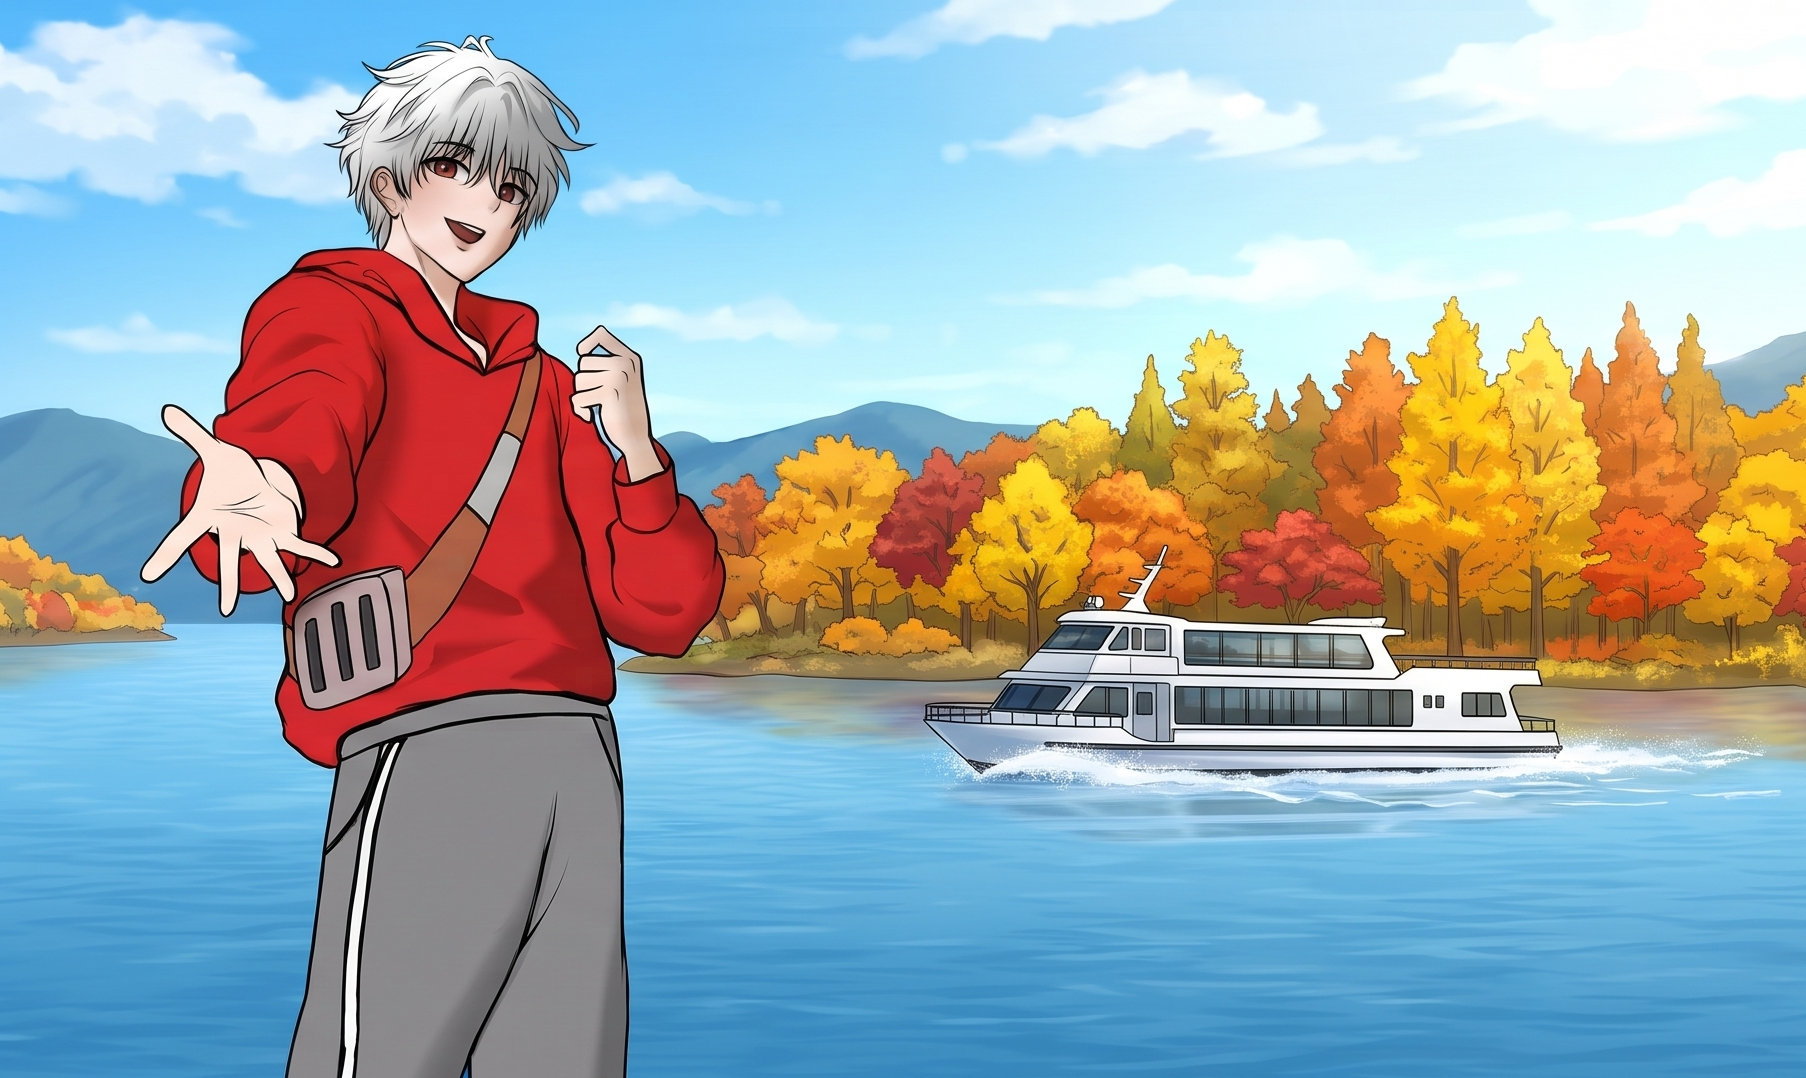
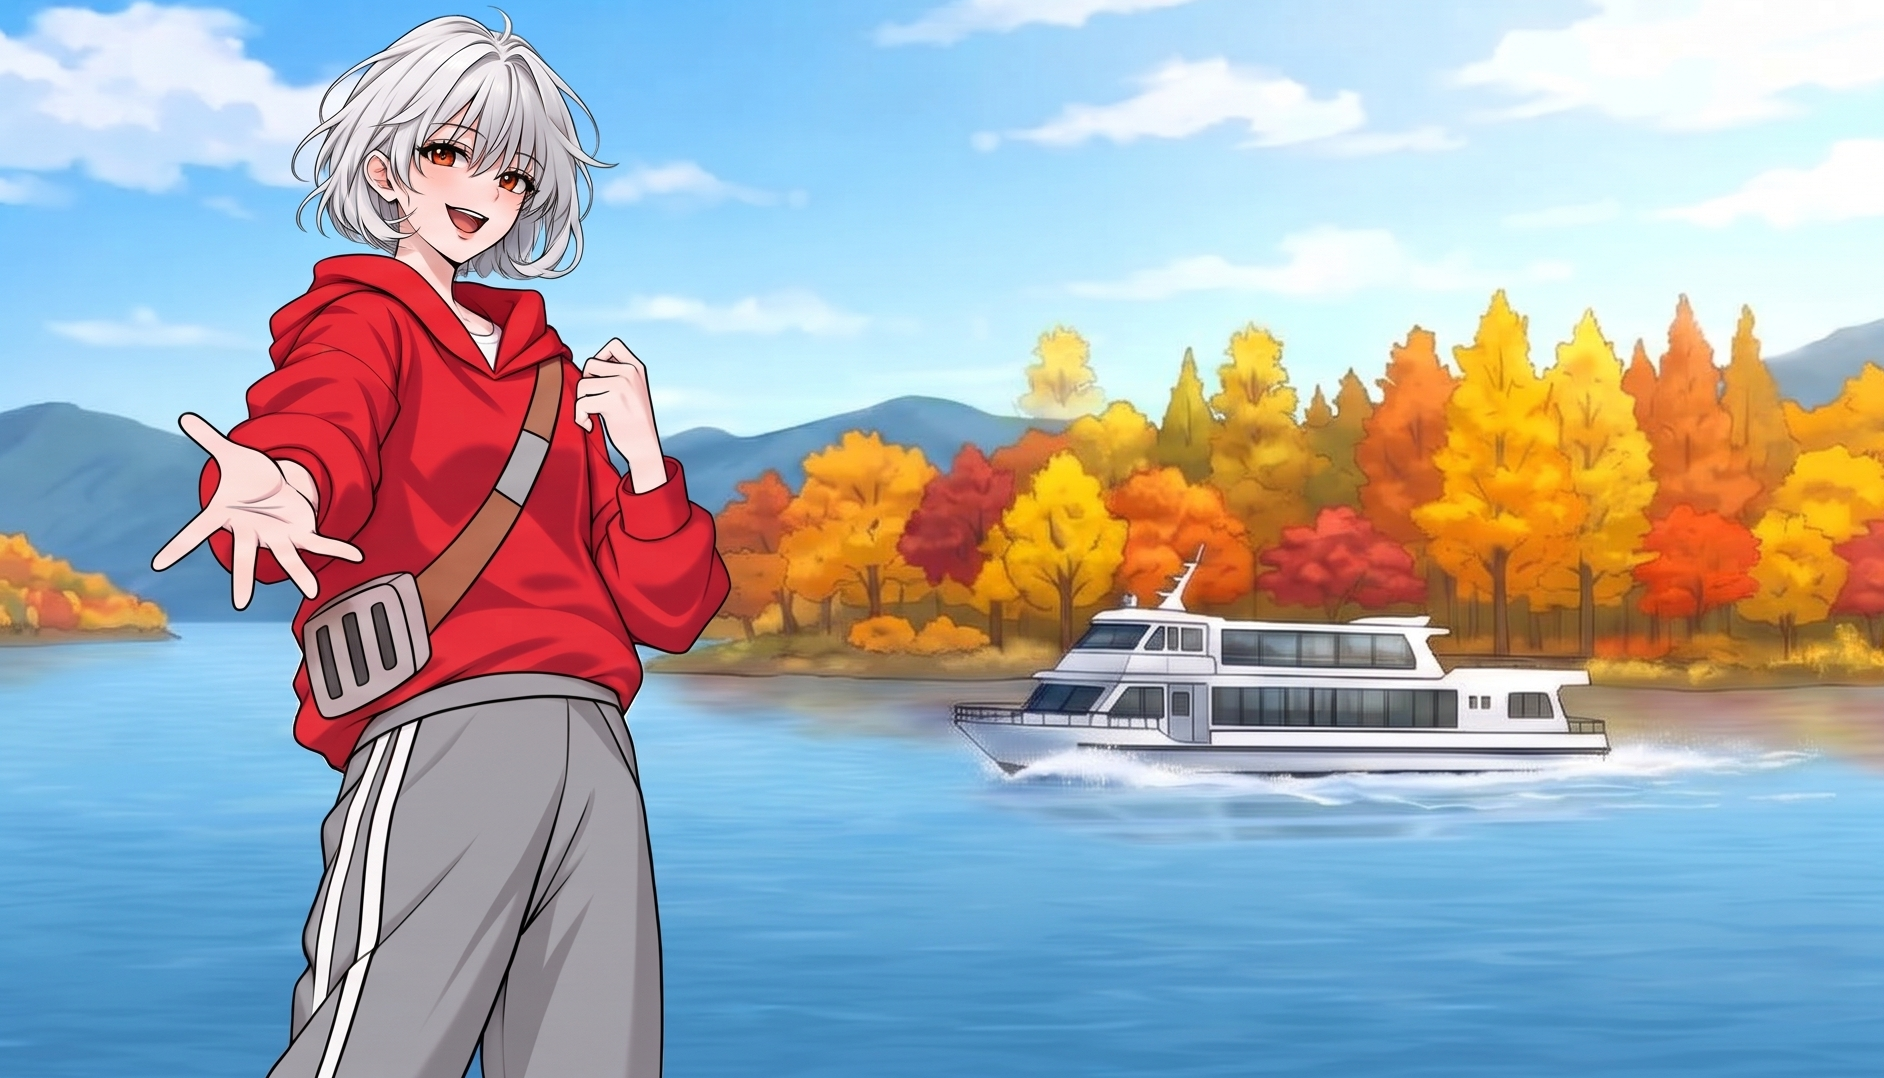
배경 추가

diff --git a/js/renderer.js b/js/renderer.js
@@ -67,11 +67,54 @@ class Renderer {
     this._typingIdx      = 0;
     this._typingCallback = null;
     this.assetManifest   = null;
+    this.backgroundsConfig = null;
   }
 
   setAssetManifest(manifest) {
     this.assetManifest = manifest || null;
     if (this.likeGauge) this.likeGauge.setAssetManifest(this.assetManifest);
+  }
+
+  setBackgroundsConfig(bgConfig) {
+    this.backgroundsConfig = bgConfig || null;
+  }
+
+  /**
+   * 배경 ID와 성별을 받아 실제 이미지 경로와 초점(background-position)을 반환합니다.
+   * - config/backgrounds.json 우선 조회 (성별별 객체 또는 단일 경로 지원)
+   * - 성별별 항목에서 요청 성별이 누락되면 반대 성별로 대체하지 않고 null 반환
+   */
+  resolveBackground(bgId, gender = 'female') {
+    if (!bgId || bgId === 'bg_black') return { url: null, focus: '50% 50%' };
+
+    const entry = this.backgroundsConfig && Object.prototype.hasOwnProperty.call(this.backgroundsConfig, bgId)
+      ? this.backgroundsConfig[bgId]
+      : null;
+
+    if (entry !== null && entry !== undefined) {
+      if (typeof entry === 'string') {
+        return { url: entry, focus: '50% 50%' };
+      }
+      if (typeof entry === 'object') {
+        const focus = entry.focus || '50% 50%';
+        const isGendered = Object.prototype.hasOwnProperty.call(entry, 'female')
+          || Object.prototype.hasOwnProperty.call(entry, 'male');
+        if (isGendered) {
+          const gKey = gender === 'male' ? 'male' : 'female';
+          if (entry[gKey]) {
+            return { url: entry[gKey], focus };
+          }
+          console.warn(`[Renderer] 성별(${gKey})에 해당하는 배경 경로가 없습니다: ${bgId}`);
+          return { url: null, focus };
+        }
+        if (entry.src) {
+          return { url: entry.src, focus };
+        }
+      }
+    }
+
+    const manifestPath = this.assetManifest?.backgrounds?.[bgId] || null;
+    return { url: manifestPath, focus: '50% 50%' };
   }
 
   setLikeFeedbackEnabled(enabled) {
@@ -123,8 +166,8 @@ class Renderer {
     let resolvedId = bgId;
     if (bgId === 'bg_hotel') resolvedId = overlay === 'night' ? 'bg_hotel_night' : 'bg_hotel_morning';
     else if (bgId === 'bg_promo_video') resolvedId = gender === 'male' ? 'bg_day3_billboard_m' : 'bg_day3_billboard_f';
-    const p = this.assetManifest?.backgrounds?.[resolvedId];
-    if (p) this.preloadImage(p);
+    const { url } = this.resolveBackground(resolvedId, gender);
+    if (url) this.preloadImage(url);
   }
 
   preloadCharacterSprites(gender = 'female') {
@@ -167,10 +210,10 @@ class Renderer {
       }
     }
 
-    this._renderBackgroundImage(resolvedId, effectiveOverlay);
+    this._renderBackgroundImage(resolvedId, effectiveOverlay, gender);
   }
 
-  _renderBackgroundImage(resolvedId, overlay = null) {
+  _renderBackgroundImage(resolvedId, overlay = null, gender = 'female') {
     if (!this.bgLayer) return;
 
     this.bgLayer.classList.remove('overlay-sunset', 'overlay-night', 'overlay-blur');
@@ -185,16 +228,19 @@ class Renderer {
 
     if (!resolvedId || resolvedId === 'bg_black') {
       this.bgLayer.style.backgroundImage = '';
+      this.bgLayer.style.backgroundPosition = '50% 50%';
       this.bgLayer.style.backgroundColor = '#000';
       if (this.bgPlaceholder) this.bgPlaceholder.style.display = 'none';
       return;
     }
 
-    const manifestPath = this.assetManifest?.backgrounds?.[resolvedId];
+    const { url: manifestPath, focus } = this.resolveBackground(resolvedId, gender);
     const label = this.assetManifest?.backgroundLabels?.[resolvedId] || resolvedId;
 
     const showPlaceholder = () => {
+      console.warn(`[Renderer] 배경 이미지 로드 실패 또는 미등록 (${resolvedId}, gender=${gender}): ${manifestPath || '없음'}`);
       this.bgLayer.style.backgroundImage = '';
+      this.bgLayer.style.backgroundPosition = '50% 50%';
       this.bgLayer.style.backgroundColor = '#1e2438';
       if (this.bgPlaceholder) {
         this.bgPlaceholder.textContent = `[배경 임시 이미지: ${label}]`;
@@ -208,6 +254,7 @@ class Renderer {
     }
 
     if (this.bgLayer.dataset.bgUrl === manifestPath && this.bgLayer.style.backgroundImage) {
+      this.bgLayer.style.backgroundPosition = focus || '50% 50%';
       if (this.bgPlaceholder) this.bgPlaceholder.style.display = 'none';
       return;
     }
@@ -215,6 +262,7 @@ class Renderer {
     const applyBgNow = () => {
       this.bgLayer.dataset.bgUrl = manifestPath;
       this.bgLayer.style.backgroundImage = `url('${manifestPath}')`;
+      this.bgLayer.style.backgroundPosition = focus || '50% 50%';
       this.bgLayer.style.backgroundColor = '';
       if (this.bgPlaceholder) this.bgPlaceholder.style.display = 'none';
     };

diff --git a/js/engine.js b/js/engine.js
@@ -38,6 +38,7 @@ class GameEngine {
     this.config = null;
     this.scoreScale = null;
     this.assetManifest = null;
+    this.backgroundsConfig = null;
 
     this.settings = {
       textSpeed: 40,
@@ -78,6 +79,9 @@ class GameEngine {
       if (this.assetManifest && typeof this.renderer.setAssetManifest === 'function') {
         this.renderer.setAssetManifest(this.assetManifest);
       }
+      if (this.backgroundsConfig && typeof this.renderer.setBackgroundsConfig === 'function') {
+        this.renderer.setBackgroundsConfig(this.backgroundsConfig);
+      }
       if (this.config?.dayTransition) this.renderer.dayTransitionConfig = this.config.dayTransition;
       if (this.config?.TRANSITION_MODE) this.renderer.transitionMode = this.config.TRANSITION_MODE;
       if (this.config) this.renderer.showChoiceImages = this.config.SHOW_CHOICE_IMAGES === true;
@@ -95,8 +99,8 @@ class GameEngine {
   setAchievedEndings() {}
 
   async init() {
-    // 1. config 및 에셋 매니페스트 병렬 로드
-    const [cfg, scale, chars, manifest] = await Promise.all([
+    // 1. config 및 에셋 매니페스트, 배경 설정 병렬 로드
+    const [cfg, scale, chars, manifest, bgConfig] = await Promise.all([
       loadJSON('config/game_config.json'),
       loadJSON('config/score_scale.json'),
       loadJSON('config/characters.json'),
@@ -104,15 +108,26 @@ class GameEngine {
         console.warn('[GameEngine] assets_manifest.json 로드 실패:', err);
         return null;
       }),
+      loadJSON('config/backgrounds.json').catch(err => {
+        console.warn('[GameEngine] backgrounds.json 로드 실패:', err);
+        return null;
+      }),
     ]);
     this.config = cfg;
     this.scoreScale = scale;
     this.charactersAll = chars;
     this.assetManifest = manifest;
+    this.backgroundsConfig = bgConfig;
 
     if (this.renderer) {
       if (this.assetManifest && typeof this.renderer.setAssetManifest === 'function') {
         this.renderer.setAssetManifest(this.assetManifest);
+      }
+      if (this.backgroundsConfig && typeof this.renderer.setBackgroundsConfig === 'function') {
+        this.renderer.setBackgroundsConfig(this.backgroundsConfig);
+      }
+      if (this.backgroundsConfig && typeof this.renderer.setBackgroundsConfig === 'function') {
+        this.renderer.setBackgroundsConfig(this.backgroundsConfig);
       }
       if (this.config.dayTransition) this.renderer.dayTransitionConfig = this.config.dayTransition;
       if (this.config.TRANSITION_MODE) this.renderer.transitionMode = this.config.TRANSITION_MODE;
@@ -153,9 +168,9 @@ class GameEngine {
     this.settings.sfxVolume = this.config.sfxVolume ?? 0.7;
     this.settings.showAffinity = this.config.showAffinity !== false;
 
-    // 4. 프롤로그 및 초반 장면 배경 백그라운드 프리로드 (시작 버튼 비차단)
+    // 4. 프롤로그 및 초반 장면 배경 백그라운드 프리로드 (성별별 홍보 영상 + 춘천역 포함)
     if (this.renderer && typeof this.renderer.preloadBackground === 'function') {
-      ['bg_train_window', 'bg_phone_screen', 'bg_brochure', 'bg_legoland', 'bg_skywalk', 'bg_dakgalbi_alley'].forEach(bg => {
+      ['bg_train_window', 'bg_phone_screen', 'bg_chuncheon_station', 'bg_brochure', 'bg_legoland', 'bg_skywalk', 'bg_dakgalbi_alley'].forEach(bg => {
         this.renderer.preloadBackground(bg, null, this.state.gender);
       });
     }

diff --git a/tools/verify_engine.js b/tools/verify_engine.js
@@ -475,6 +475,17 @@ async function runPlaythrough({ gender = 'male', seat = 'dakgalbi', day2Idx = 0,
   assert(contrastRatio('#70435F', '#EDF5FC') >= 4.5, '선택지 대비: --choice-plum on completed sky >= 4.5:1');
   assert(fs.existsSync(path.join(rootDir, 'css', 'choices.css')), '선택지 전용 CSS 파일 존재: css/choices.css');
 
+  // 16) config/backgrounds.json 성별별 배경 및 춘천역 공통 배경 검증
+  const bgCfgPath = path.join(rootDir, 'config', 'backgrounds.json');
+  assert(fs.existsSync(bgCfgPath), 'config/backgrounds.json 파일 존재');
+  const bgCfg = JSON.parse(fs.readFileSync(bgCfgPath, 'utf8'));
+  assert(bgCfg.bg_phone_screen?.female === 'assets/backgrounds/bg_promo_video_f.png', 'bg_phone_screen.female 경로 일치');
+  assert(bgCfg.bg_phone_screen?.male === 'assets/backgrounds/bg_promo_video_m.png', 'bg_phone_screen.male 경로 일치');
+  assert((bgCfg.bg_chuncheon_station?.src || bgCfg.bg_chuncheon_station) === 'assets/backgrounds/bg_chuncheon_station.png', 'bg_chuncheon_station 경로 일치');
+  assert(fs.existsSync(path.join(rootDir, bgCfg.bg_phone_screen.female)), '실제 파일 존재: bg_promo_video_f.png');
+  assert(fs.existsSync(path.join(rootDir, bgCfg.bg_phone_screen.male)), '실제 파일 존재: bg_promo_video_m.png');
+  assert(fs.existsSync(path.join(rootDir, bgCfg.bg_chuncheon_station.src || bgCfg.bg_chuncheon_station)), '실제 파일 존재: bg_chuncheon_station.png');
+
   // 14) 상단 시스템 버튼 6개 개별 이미지(1x/2x) 존재 및 용량(<=150KB) 검증
   for (const key of ['save', 'load', 'settings', 'title', 'auto', 'skip']) {
     const p1 = path.join(rootDir, 'assets', 'ui', `ui_btn_${key}.png`);

diff --git a/js/save_modal.js b/js/save_modal.js
@@ -9,10 +9,11 @@
 'use strict';
 
 class SaveModal {
-  constructor({ saveManager, confirmPopup, getAssetManifest, onSaveAction, onLoadAction, onDeleteAction, onClose }) {
+  constructor({ saveManager, confirmPopup, getAssetManifest, resolveBackground, onSaveAction, onLoadAction, onDeleteAction, onClose }) {
     this.saveManager = saveManager;
     this.confirmPopup = confirmPopup;
     this.getAssetManifest = getAssetManifest || (() => null);
+    this.resolveBackground = resolveBackground || null;
     this.onSaveAction = onSaveAction;
     this.onLoadAction = onLoadAction;
     this.onDeleteAction = onDeleteAction;
@@ -196,7 +197,11 @@ class SaveModal {
     }
 
     const bgKey = slotData.bgKey;
-    const bgPath = (bgKey && bgKey !== 'bg_black' && manifest?.backgrounds?.[bgKey]) || null;
+    const gender = slotData.gender || 'female';
+    const resolvedBg = (bgKey && bgKey !== 'bg_black' && typeof this.resolveBackground === 'function')
+      ? this.resolveBackground(bgKey, gender)
+      : null;
+    const bgPath = resolvedBg || ((bgKey && bgKey !== 'bg_black' && manifest?.backgrounds?.[bgKey]) || null);
     const placeName = SaveManager.getPlaceName(bgKey);
     const fallbackText = placeName || slotData.chapterLabel || '저장된 데이터';
 
@@ -209,7 +214,6 @@ class SaveModal {
     }
 
     // 배경 위에 저장 당시 스프라이트 작게 합성
-    const gender = slotData.gender || 'female';
     const sprites = Array.isArray(slotData.spriteKeys) ? slotData.spriteKeys : [];
     const spriteImgs = sprites.map(sp => {
       const exprMap = manifest?.expressionMap?.[sp.id] || {};

diff --git a/js/main.js b/js/main.js
@@ -45,11 +45,13 @@ document.addEventListener('DOMContentLoaded', async () => {
   renderer.preloadImage('assets/backgrounds/bg_title_f.png');
   renderer.preloadImage('assets/backgrounds/bg_title_m.png');
 
-  // 첫 진입 시 검은 화면 위에 성별 선택 팝업 즉시 표시 -> 선택 후 1초 페이드 전환으로 타이틀 진입
+  // 첫 진입 시 검은 화면 위에 성별 선택 팝업 즉시 표시 -> 선택 후 해당 성별의 홍보 영상/춘천역 프리로드 + 1초 페이드 전환
   renderer.showScreen(null);
   renderer.showGenderModal((gender) => {
     engine.state.gender = gender;
     renderer.setTitleBackground(gender);
+    renderer.preloadImage(gender === 'male' ? 'assets/backgrounds/bg_promo_video_m.png' : 'assets/backgrounds/bg_promo_video_f.png');
+    renderer.preloadImage('assets/backgrounds/bg_chuncheon_station.png');
     renderer.showTitleWithFade();
   }, null, { initial: true });
 

diff --git a/js/ui.js b/js/ui.js
@@ -56,6 +56,7 @@ class UIController {
         saveManager: this.saveManager,
         confirmPopup: this.confirmPopup,
         getAssetManifest: () => this.engine?.assetManifest || this.renderer?.assetManifest || null,
+        resolveBackground: (bgKey, gender) => this.renderer?.resolveBackground?.(bgKey, gender)?.url || null,
         onSaveAction: (slotNum) => {
           if (!this.engine || !this.saveManager) return false;
           const state = this.engine.getState();

diff --git a/README.md b/README.md
@@ -159,8 +159,9 @@ node tools/verify_engine.js
 |:---|:---|
 | `assets/backgrounds/bg_black.png` | 암전 화면 / 페이드 배경 |
 | `assets/backgrounds/bg_train_window.png` | 열차 창밖 풍경 이미지 |
-| `assets/backgrounds/bg_phone_screen.png` | 휴대폰 화면 / 캠페인 영상 / 채팅 목록 |
-| `assets/backgrounds/bg_chuncheon_station.png` | 춘천역 이미지 |
+| `assets/backgrounds/bg_promo_video_f.png` | 프롤로그 휴대폰 홍보 영상 (여성 등장인물 버전, `bg_phone_screen`) |
+| `assets/backgrounds/bg_promo_video_m.png` | 프롤로그 휴대폰 홍보 영상 (남성 등장인물 버전, `bg_phone_screen`) |
+| `assets/backgrounds/bg_chuncheon_station.png` | 춘천역 배경 (남녀 공통, `bg_chuncheon_station`) |
 | `assets/backgrounds/bg_brochure.png` | 안내책자 이미지 (블러) |
 | `assets/backgrounds/bg_legoland.png` | 레고랜드 입구 이미지 |
 | `assets/backgrounds/bg_skywalk.png` | 소양강 스카이워크 이미지 |
